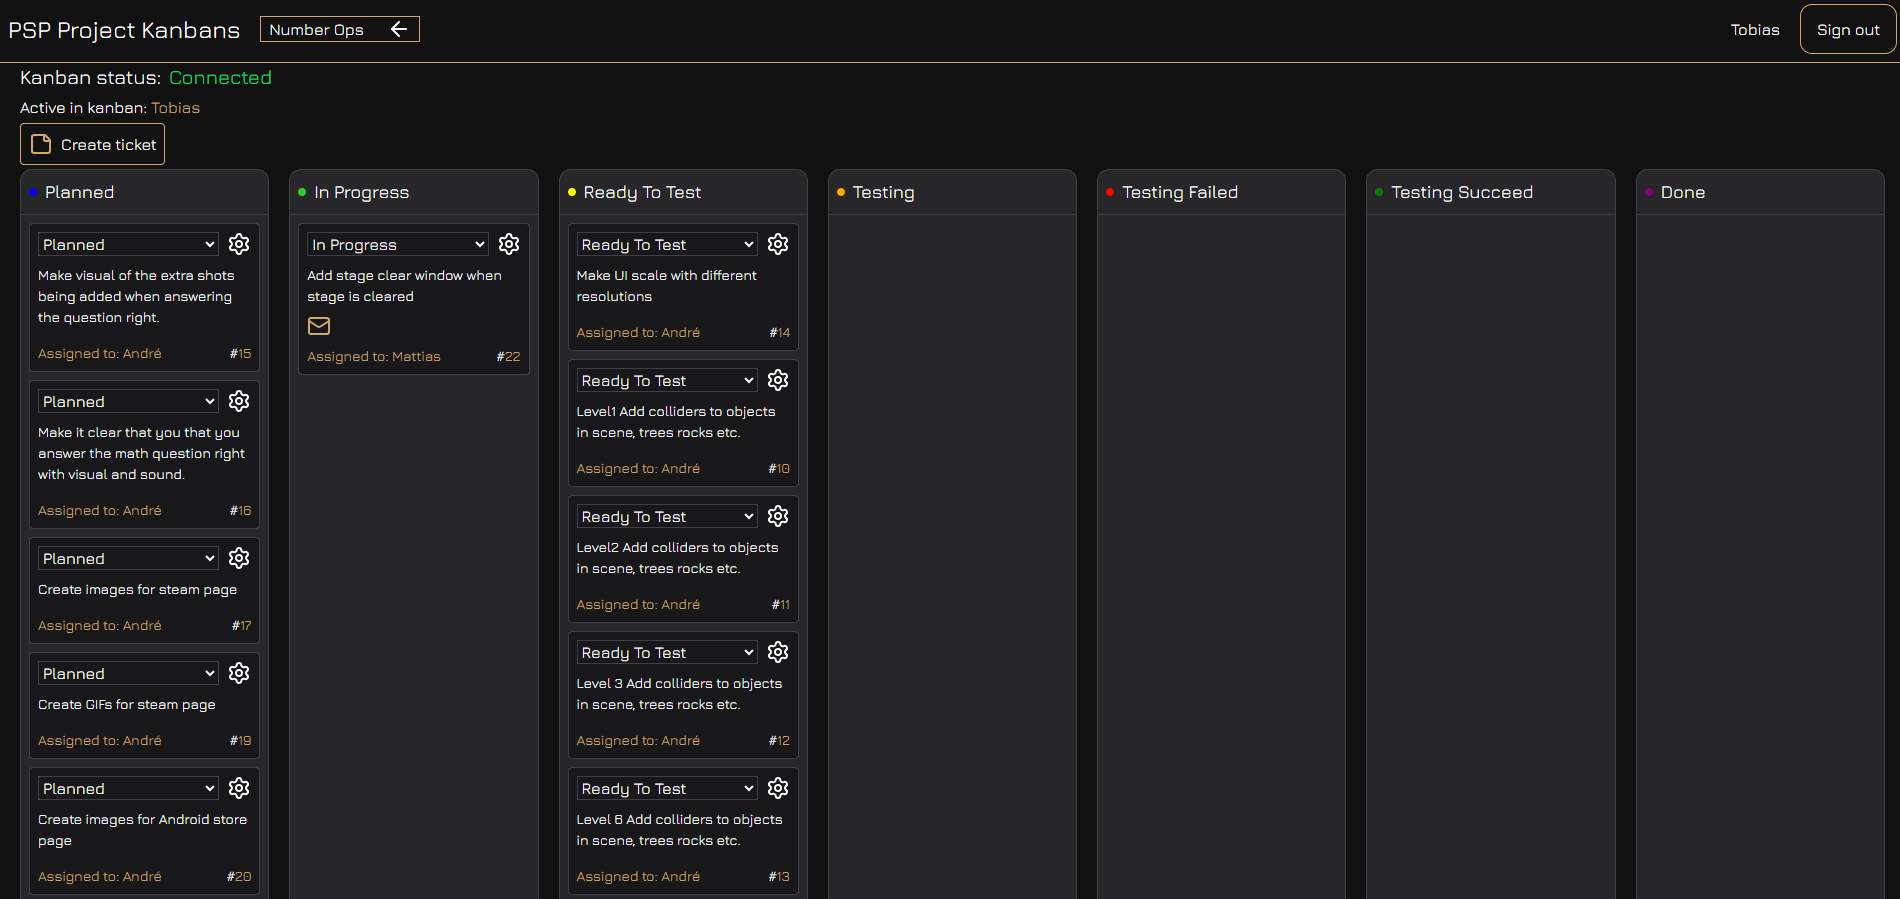
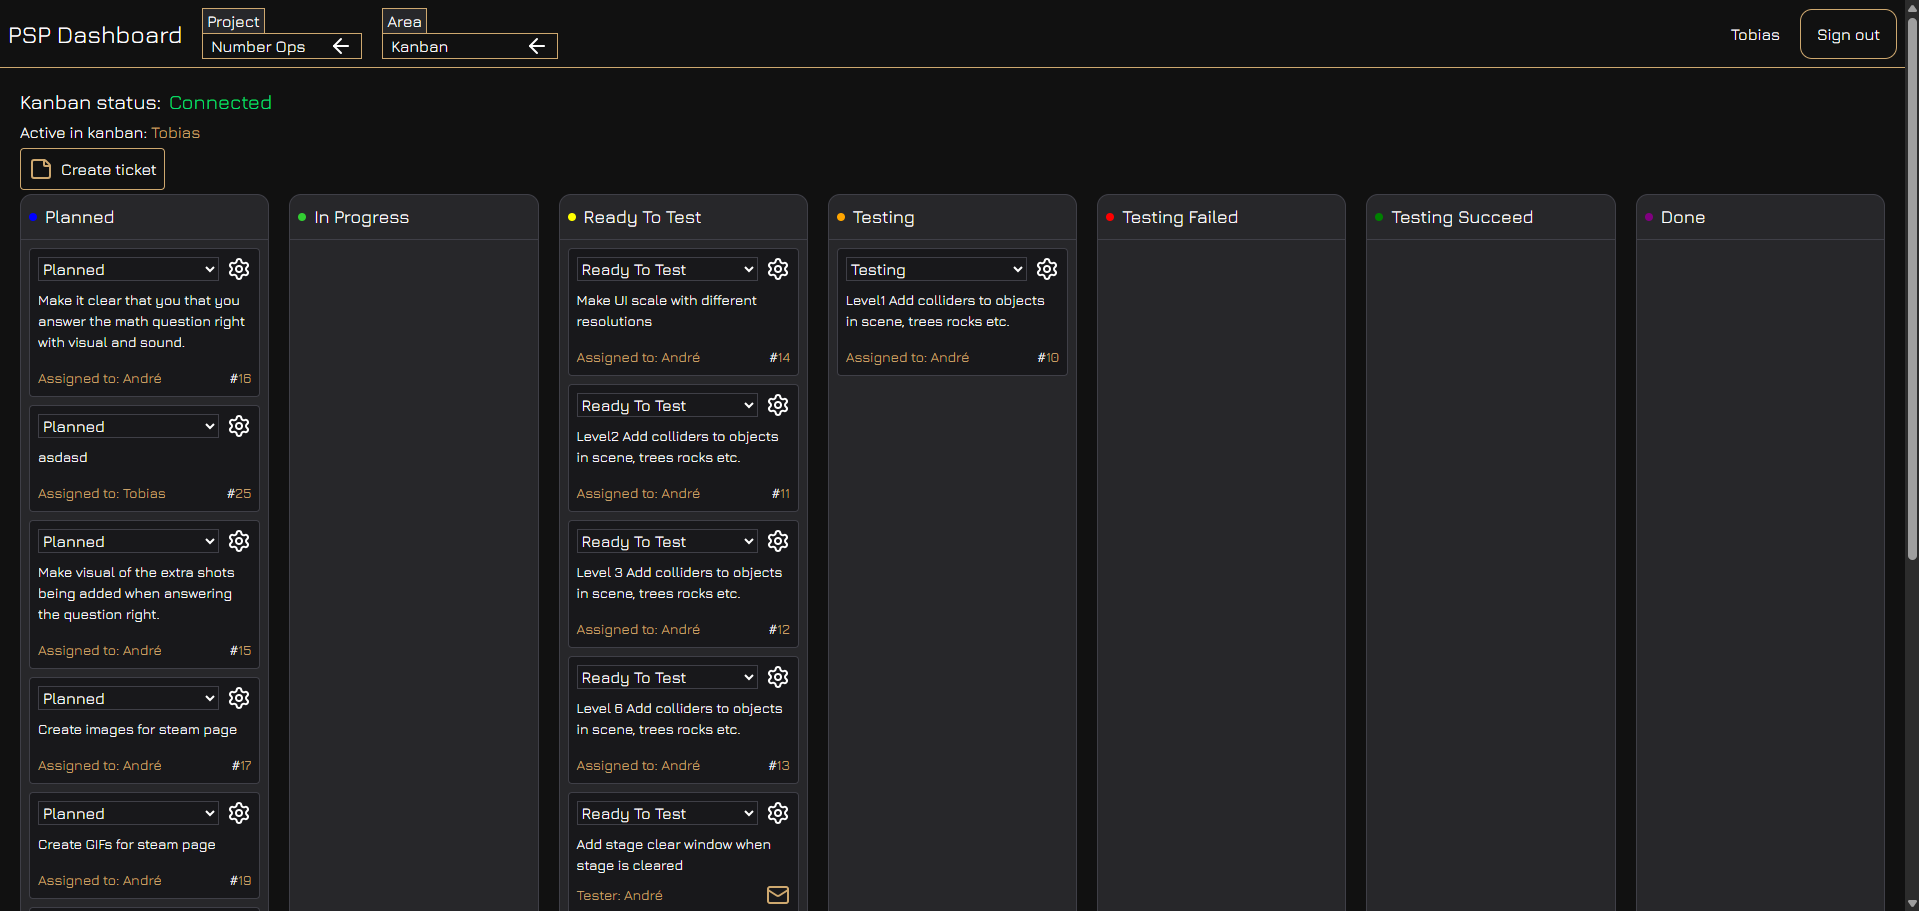
updated screenshot and title for dashboard, updated work search

Changed region(s): [[0.0, 0.0, 1.0, 1.0]]

diff --git a/src/pages/HomePage/index.tsx b/src/pages/HomePage/index.tsx
@@ -18,8 +18,8 @@ const HomePage = () => {
     },
     {
       id: 2,
-      title: 'PSP Kanban',
-      description: 'Kanban for our hobby game projects, using Supabase realtime/presence, fast updates and see all the users currently editing/watching. Login/auth via Supabase',
+      title: 'PSP Dashboard',
+      description: 'Kanban for our hobby game projects, using Supabase realtime/presence, fast updates and see all the users currently editing/watching. Login/auth via Supabase. Gantt system and also ingame "Settings" for specific games.',
       techs: ['React', 'TypeScript', 'Tailwind', 'Supabase', 'Zustand', 'Vite', 'Zod'],
       git: 'https://github.com/TobiasKjernell/kanbanSPA',
       url: '',

diff --git a/src/pages/WorkSearchPage/index.tsx b/src/pages/WorkSearchPage/index.tsx
@@ -15,20 +15,11 @@ interface JobApplication {
 const applications: JobApplication[] = [
     {
         id: 1,
-        company: 'Example AB',
+        company: 'Mojang Studios',
         workTitle: 'Frontend Developer',
         country: 'Sweden',
-        appliedDate: '2026-04-01',
+        appliedDate: '2026-04-23',
         status: 'Waiting',
-        interview: false,
-    },
-    {
-        id: 1,
-        company: 'Example AB',
-        workTitle: 'Frontend Developer',
-        country: 'Sweden',
-        appliedDate: '2026-04-01',
-        status: 'Waiting',  
         interview: false,
     },
 ]
